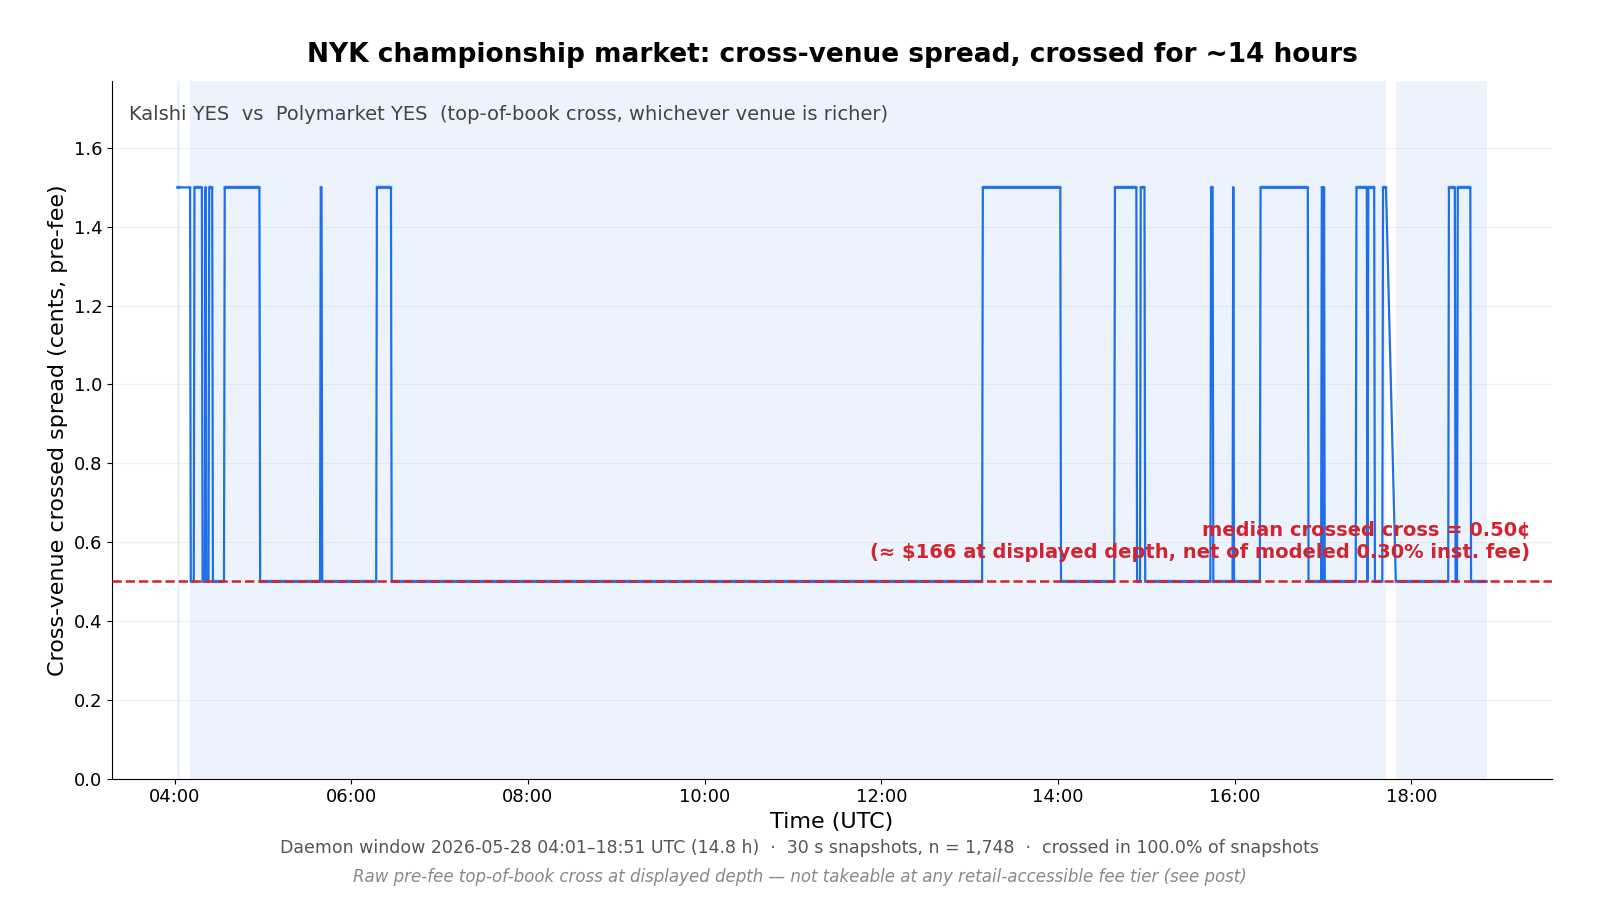
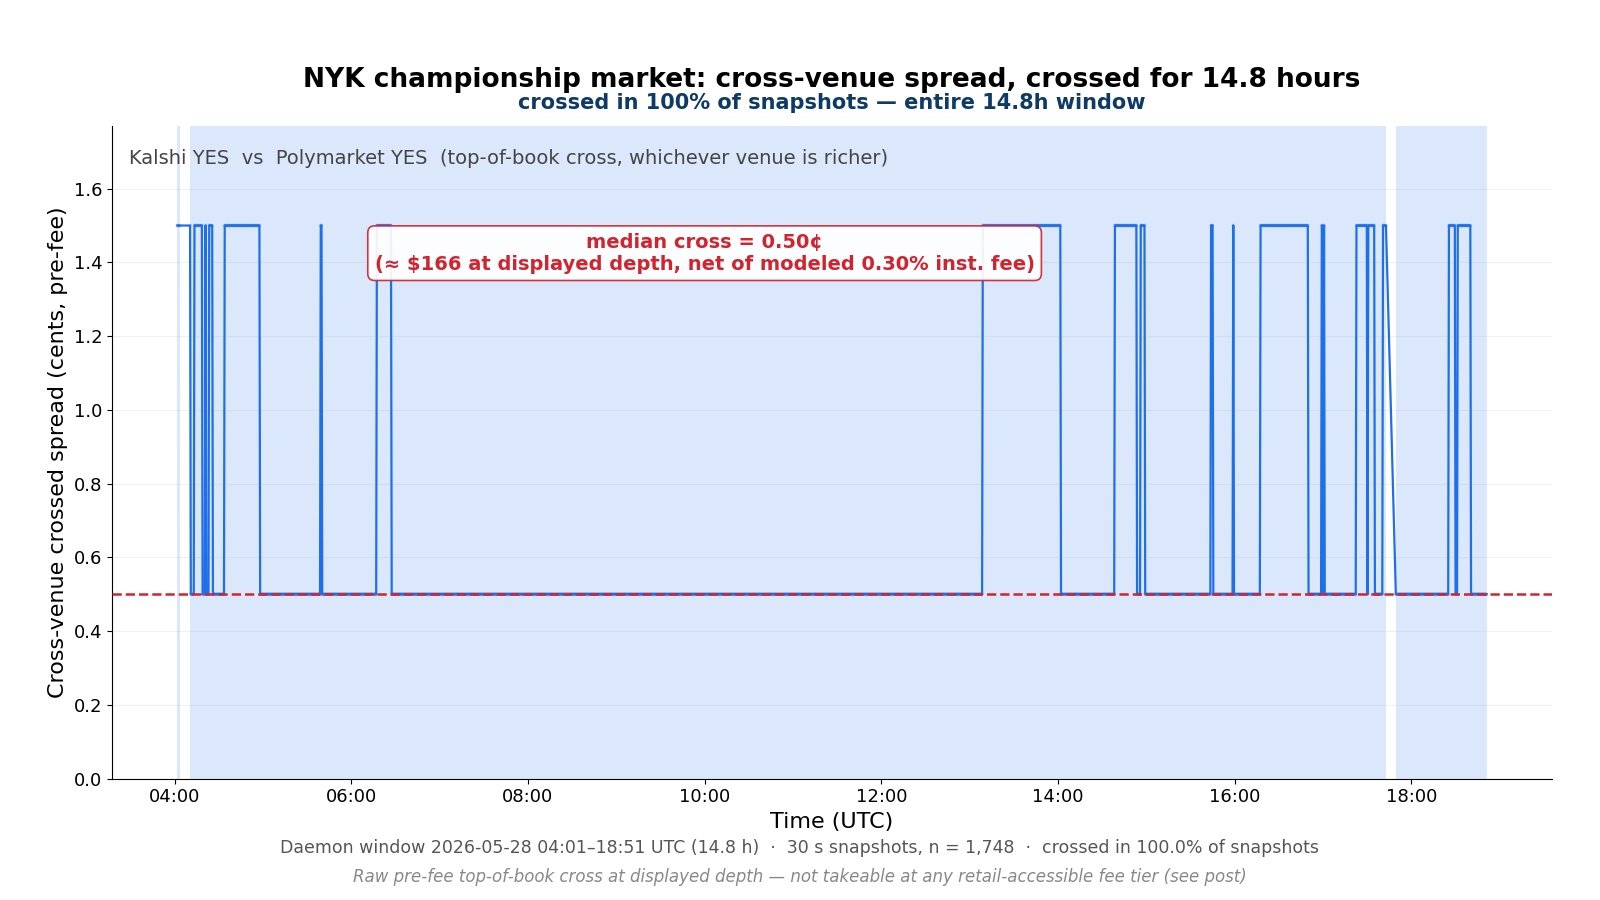
Polish NYK persistence hero figure layout for Substack.
Fix median-cross label typo, move callout into mid-chart gap, darken
crossed-region shading, add 100%-crossed headline and 14.8h title; regen PNG.

diff --git a/scripts/fig_nyk_persistence.py b/scripts/fig_nyk_persistence.py
@@ -140,7 +140,7 @@ def make_figure(df: pd.DataFrame, s: dict) -> None:
     # Shade contiguous crossed runs (paper cross > 0), gap-aware.
     crossed = (df["paper_spread_c"] > 0).to_numpy()
     for (a, b) in crossed_runs(df["utc_ts"], crossed):
-        ax.axvspan(a, b, color=cross_fill, alpha=0.08, lw=0)
+        ax.axvspan(a, b, color=cross_fill, alpha=0.16, lw=0)
 
     # The pre-fee raw cross series, with line breaks across polling gaps.
     x, y = y_with_gaps(df)
@@ -148,23 +148,37 @@ def make_figure(df: pd.DataFrame, s: dict) -> None:
     ax.scatter(df["utc_ts"], df["paper_spread_c"], s=6, color=kalshi_blue,
                alpha=0.35, zorder=3, edgecolors="none")
 
-    # Median line + annotation (computed, not hardcoded).
+    # Median line + annotation in the flat mid-window band (computed, not hardcoded).
     med = s["median_cross_c"]
     ax.axhline(med, color=median_red, lw=1.8, ls="--", zorder=4)
+    ann_x = pd.Timestamp("2026-05-28 10:00:00", tz="UTC")
+    ann_y = s["max_cross_c"] * 0.95
     ax.annotate(
-        f"median crossed cross = {med:.2f}¢\n"
+        f"median cross = {med:.2f}¢\n"
         f"(≈ ${s['median_takeable_usd']:.0f} at displayed depth, "
         f"net of modeled 0.30% inst. fee)",
-        xy=(0.985, med), xycoords=("axes fraction", "data"),
-        xytext=(0, 14), textcoords="offset points",
-        ha="right", va="bottom", color=median_red, fontsize=14, fontweight="bold",
+        xy=(ann_x, ann_y), xycoords="data",
+        ha="center", va="center", color=median_red, fontsize=14, fontweight="bold",
+        bbox=dict(boxstyle="round,pad=0.35", facecolor="white", edgecolor=median_red,
+                  alpha=0.92, lw=1.2),
+        zorder=5,
     )
 
     ax.set_ylim(0, s["max_cross_c"] * 1.18)
     ax.set_xlabel("Time (UTC)")
     ax.set_ylabel("Cross-venue crossed spread (cents, pre-fee)")
-    ax.set_title("NYK championship market: cross-venue spread, crossed for ~14 hours",
-                 pad=14, fontweight="bold")
+    span_h = s["span_hours"]
+    ax.set_title(
+        f"NYK championship market: cross-venue spread, crossed for {span_h:.1f} hours",
+        pad=28, fontweight="bold",
+    )
+    ax.text(
+        0.5, 1.02,
+        f"crossed in {s['frac_crossed_paper']*100:.0f}% of snapshots — "
+        f"entire {span_h:.1f}h window",
+        transform=ax.transAxes, ha="center", va="bottom",
+        fontsize=15, fontweight="bold", color="#0d3b66",
+    )
 
     # X axis: readable hourly labels.
     ax.xaxis.set_major_locator(mdates.HourLocator(interval=2))
@@ -198,7 +212,7 @@ def make_figure(df: pd.DataFrame, s: dict) -> None:
         ha="center", fontsize=12, color="#888888", style="italic",
     )
 
-    fig.subplots_adjust(left=0.07, right=0.97, top=0.91, bottom=0.135)
+    fig.subplots_adjust(left=0.07, right=0.97, top=0.86, bottom=0.135)
     fig.savefig(OUT_PNG, dpi=100)
     plt.close(fig)
 
